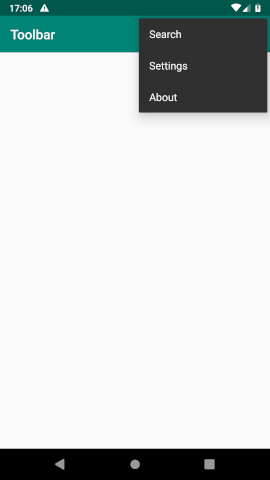
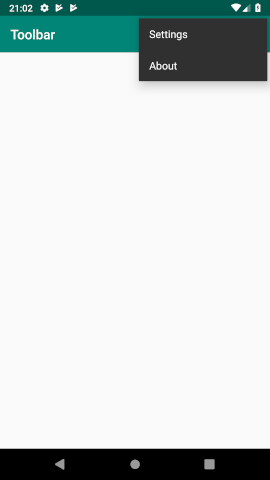
modificado o readme.md

diff --git a/app/src/main/java/br/com/barrsoft/toolbar/MainActivity.java b/app/src/main/java/br/com/barrsoft/toolbar/MainActivity.java
@@ -5,6 +5,7 @@ import androidx.annotation.Nullable;
 import androidx.appcompat.app.AppCompatActivity;
 import androidx.appcompat.widget.Toolbar;
 
+import android.content.res.Resources;
 import android.os.Bundle;
 import android.view.Menu;
 import android.view.MenuItem;
@@ -48,13 +49,16 @@ public class MainActivity extends AppCompatActivity {
 
         switch (item.getItemId()) {
             case R.id.menu_search:
-                Toast.makeText(this, "Search", Toast.LENGTH_LONG).show();
+                Toast.makeText(this, getResources().getString(R.string.search), Toast.LENGTH_SHORT).show();
+                return true;
+            case R.id.menu_bag:
+                Toast.makeText(this, getResources().getString(R.string.bag), Toast.LENGTH_SHORT).show();
                 return true;
             case R.id.menu_settings:
-                Toast.makeText(this, "Settings", Toast.LENGTH_LONG).show();
+                Toast.makeText(this, getResources().getString(R.string.settings), Toast.LENGTH_SHORT).show();
                 return true;
             case R.id.menu_about:
-                Toast.makeText(this, "About", Toast.LENGTH_LONG).show();
+                Toast.makeText(this, getResources().getString(R.string.about), Toast.LENGTH_SHORT).show();
                 return true;
             default:
                 return super.onOptionsItemSelected(item);

diff --git a/README.md b/README.md
@@ -1,14 +1,15 @@
-# APP
+# Toolbar
 
 ## Sobre o APP 
-Esse aplicativo xxxxxx
+Esse aplicativo tem como objetivo mostrar uma toolbar e seu menu
 ## Conhecimento aplicado
-* xxxx
-* xxxx
-* xxxx
+* Butter Knife
+* Edição do styles.xml
+* Criação de um menu.xml
+* Criação de uma Toolbar
 
 ## Screeshots
 
-|![Image 1]()
-|![Image 2]()
-|![Image 3]()
+|![Image 1](https://github.com/reginaldobarreto/Toolbar/blob/master/1.png)
+|![Image 2](https://github.com/reginaldobarreto/Toolbar/blob/master/2.png)
+|![Image 3](https://github.com/reginaldobarreto/Toolbar/blob/master/3.png)
